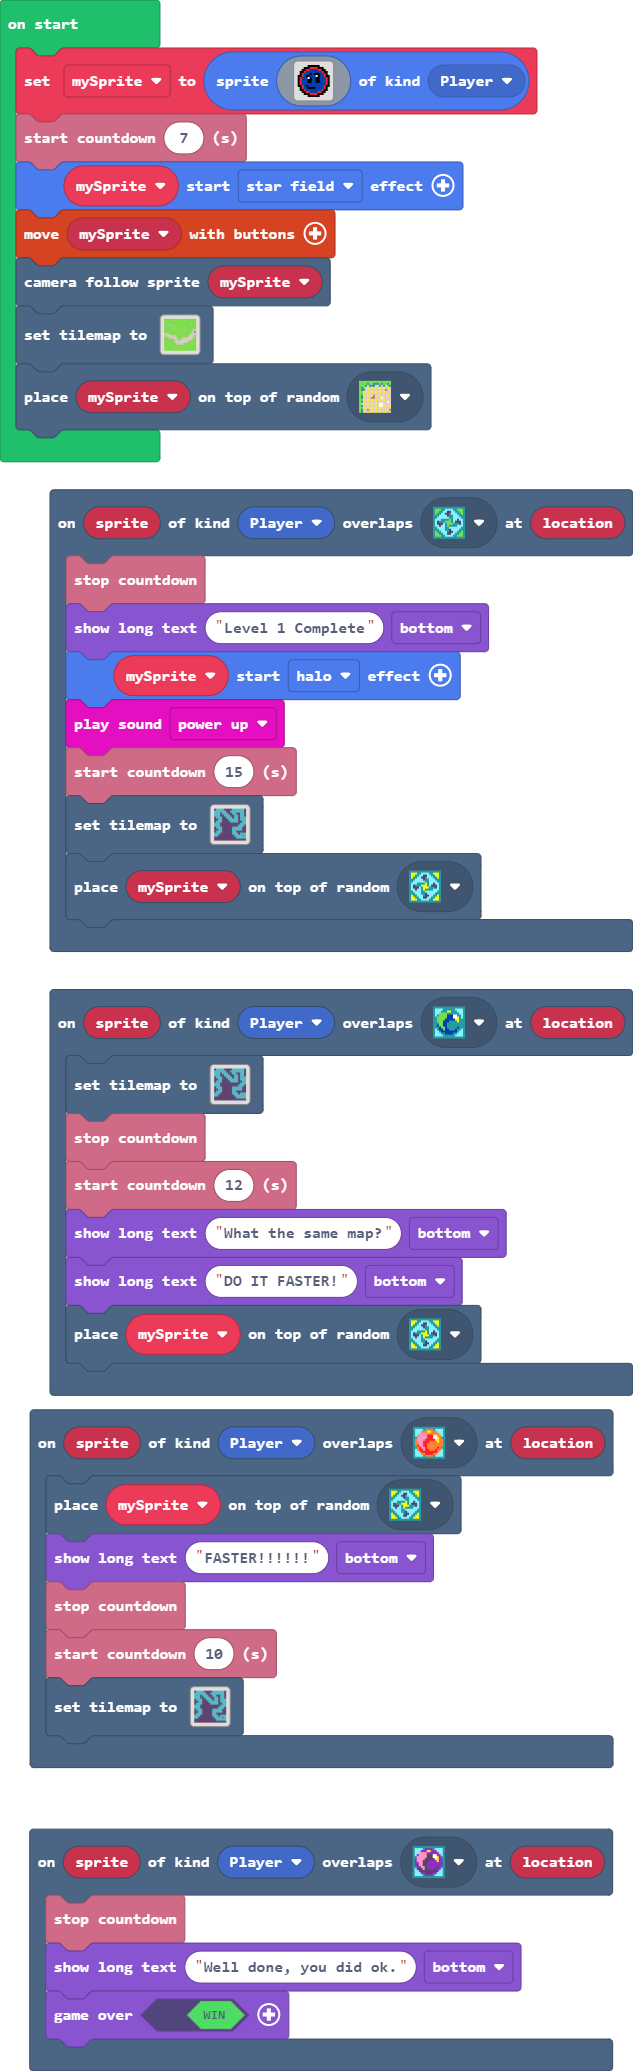
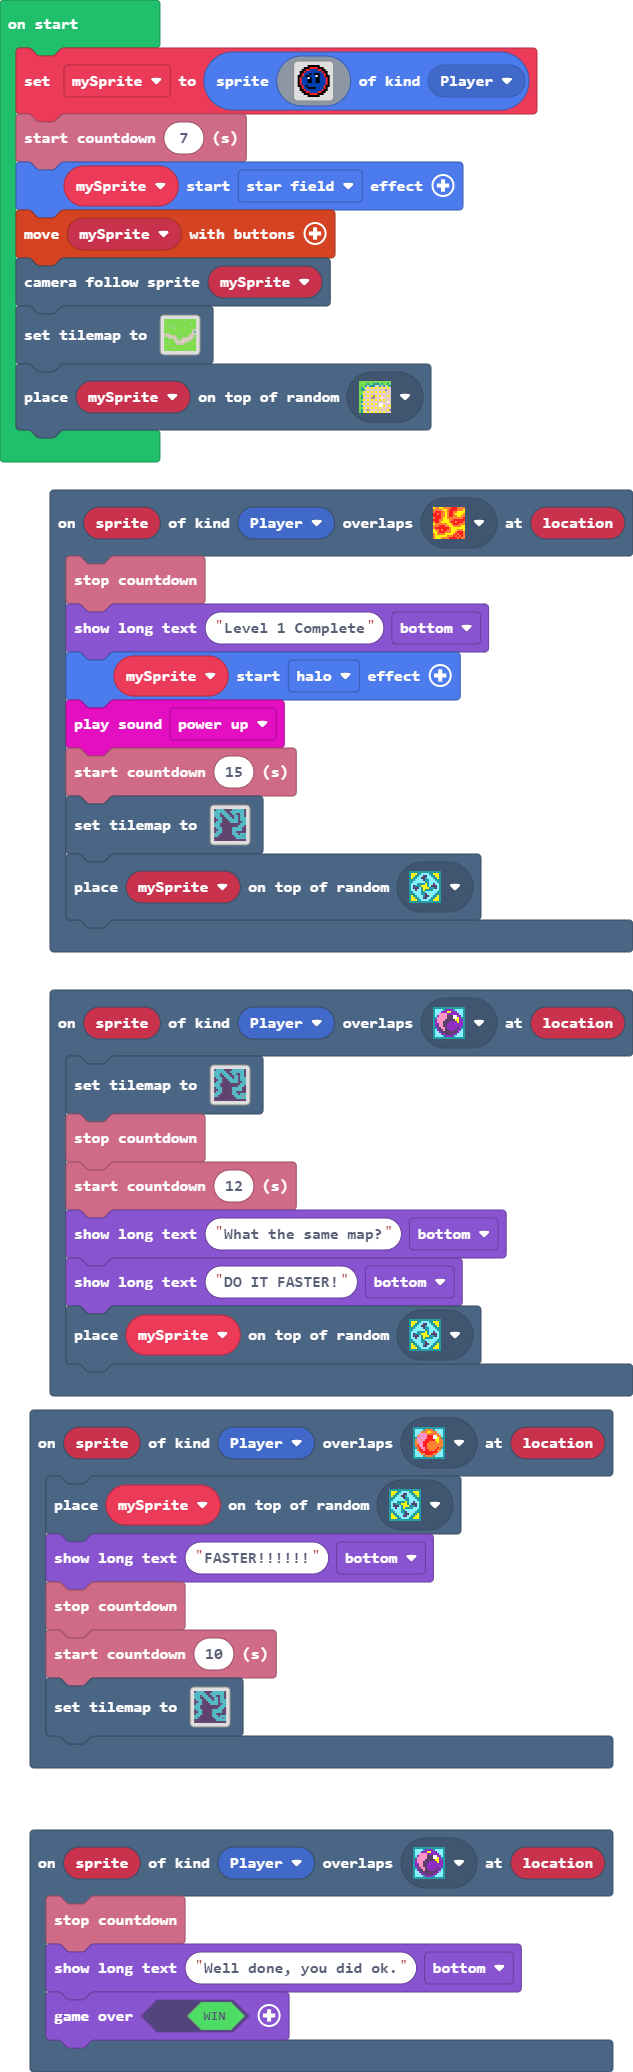
Update pxt.json, main.blocks, main.ts, tilemap.g.jres, tilemap.g.ts

diff --git a/main.ts b/main.ts
@@ -1,4 +1,4 @@
-scene.onOverlapTile(SpriteKind.Player, assets.tile`tile3`, function (sprite, location) {
+scene.onOverlapTile(SpriteKind.Player, assets.tile`tile19`, function (sprite, location) {
     info.stopCountdown()
     game.showLongText("Level 1 Complete", DialogLayout.Bottom)
     mySprite.startEffect(effects.halo)
@@ -7,7 +7,7 @@ scene.onOverlapTile(SpriteKind.Player, assets.tile`tile3`, function (sprite, loc
     tiles.setTilemap(tilemap`level4`)
     tiles.placeOnRandomTile(mySprite, assets.tile`tile17`)
 })
-scene.onOverlapTile(SpriteKind.Player, assets.tile`tile2`, function (sprite, location) {
+scene.onOverlapTile(SpriteKind.Player, assets.tile`tile26`, function (sprite, location) {
     tiles.setTilemap(tilemap`level9`)
     info.stopCountdown()
     info.startCountdown(12)

diff --git a/tilemap.g.ts b/tilemap.g.ts
@@ -292,7 +292,7 @@ namespace myTiles {
             case "tile18":return tile18;
             case "tile25":
             case "tile19":return tile19;
-            case "tile18":
+            case "tile26":
             case "tile2":return tile2;
         }
         return null;
